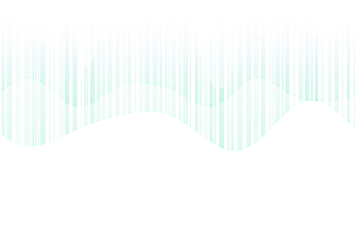
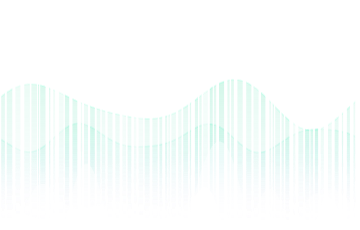
Arregla el corte del mosaico, invierte la aurora y anade el modo sin morir
EL CORTE DEL FONDO. El desplazamiento del mosaico se envolvia a 128 px, que
era el tamano de los que genera el juego. Con azulejos entregados de
cualquier tamano -8, 21, 180, 504- volver a cero cada 128 salta a un punto
distinto del dibujo, y ese salto se ve como un corte cada pocos segundos.

Ahora se envuelve por el periodo real del azulejo, y el margen que se dibuja
de mas tambien. Medido en Invierno, cuyo azulejo mide 504: la diferencia
entre el ultimo fotograma del ciclo y el primero baja de 2,02 niveles a 0,06.

LA AURORA, invertida. Su propia especificacion decia "el brillo va abajo, el
borde inferior es el mas nitido y el mas claro, y se apaga hacia arriba; al
reves se lee como niebla" -y lo entregado hacia justo lo contrario: el alfa
subia hasta el 33% de la altura y el borde de abajo estaba vacio.

MODO SIN MORIR, interruptor en el menu. Apaga TODAS las derrotas, no solo la
del reloj: si al inspeccionar un bioma de defensa te matara un proyectil, el
modo no serviria para lo que sirve. El reloj deja de bajar en vez de quedarse
clavado en cero, porque una barra vacia que no mata parece un juego roto.
Ganar sigue funcionando.

Solo en compilaciones de depuracion: en una de publicacion el boton ni se
dibuja, y un guardado que lo traiga encendido se ignora.

Verificado: con el modo apagado, Asedio muere a los 4,5 s por impacto; con el
encendido llega a los 40,4 s y GANA el nivel, y en el nivel 1 sigue jugando a
los 70 s con la barra intacta.

diff --git a/contexto/15-pantalla.md b/contexto/15-pantalla.md
@@ -121,6 +121,18 @@ porque se insertaron estados al principio.
 Título, subtítulo, y **dos botones grandes**: Campaña y Sin fin. Debajo, el
 récord. Y un botón de Registro, que es la única puerta a la caja negra.
 
+Abajo a la izquierda, **Sin morir**: apaga todas las derrotas para poder mirar
+un bioma sin que la partida se acabe. Apaga *todas* y no solo la del reloj,
+porque si al inspeccionar Asedio te matara un proyectil el modo no serviría para
+lo que sirve. El reloj deja de bajar en vez de quedarse clavado en cero —una
+barra vacía que no mata parece un juego roto, una barra llena dice «aquí no se
+está midiendo nada», que es la verdad—. Ganar sigue funcionando.
+
+Solo existe en compilaciones de depuración: en una de publicación el botón ni se
+dibuja, y un guardado que lo traiga encendido se ignora. Una salvaguarda que
+depende de acordarse no es una salvaguarda, y ya hay una en esa lista
+(`todos_los_niveles`).
+
 ### `SelectScreen` — elegir nivel
 
 Bioma, número, meta y pista, con flechas a los lados y un botón de jugar. Existe
